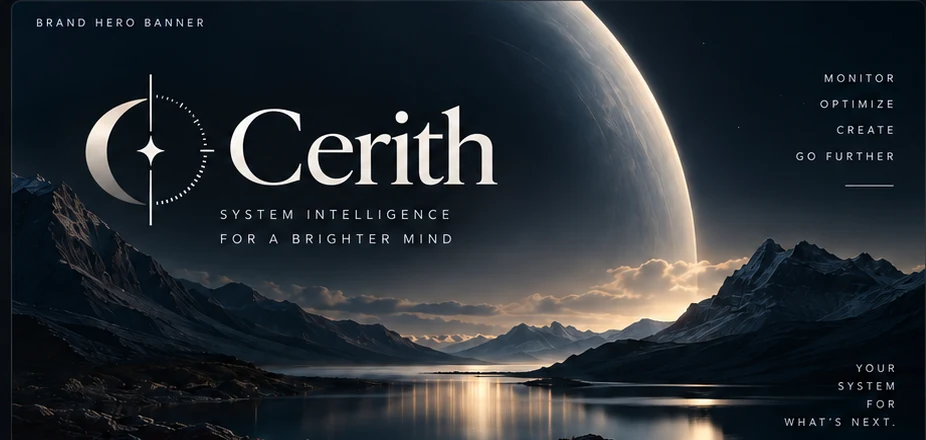
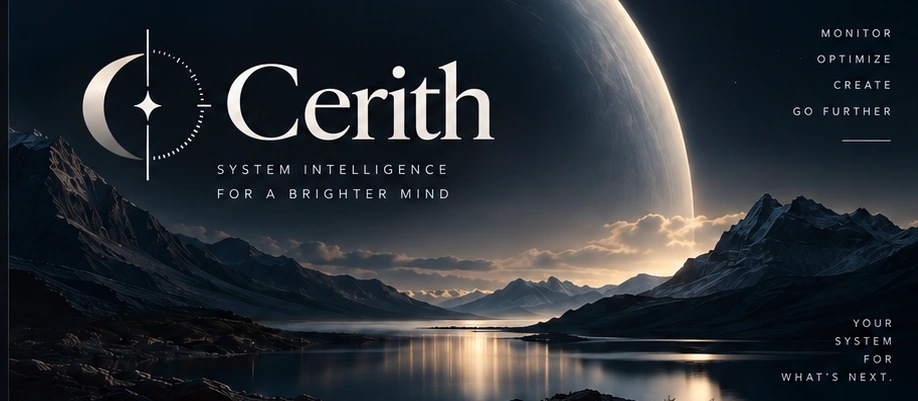
docs(brand): publish original Cerith identity without unbuilt dashboard

diff --git a/README.md b/README.md
@@ -1,104 +1,120 @@
 <div align="center">
-  <img src="docs/assets/cerith-hero.webp" alt="Cerith: an orbital mark and editorial wordmark over a midnight-blue horizon" width="100%" />
-</div>
-
-<div align="center">
-  <p><strong>Your system, in focus.</strong></p>
-  <p>A native Windows telemetry platform for hardware, gaming and AI usage — built around one idea: every real metric should work in any design, on any desktop surface.</p>
-  <p><strong>Windows</strong> · <strong>C# / .NET 10</strong> · <strong>WinUI 3</strong> · <strong>Local-first</strong></p>
-  <p><a href="#cerith-home">Explore Cerith Home</a> · <a href="#one-metric-language-many-surfaces">How it works</a> · <a href="#development-status">Roadmap</a> · <a href="#explore-the-project">Contribute</a></p>
+  <img src="docs/assets/cerith-hero.webp" alt="Cerith orbital symbol and wordmark above a luminous, midnight-blue mountain landscape" width="100%" />
+  <h1>Cerith</h1>
+  <p><strong>Any metric. Any design. Anywhere on your desktop.</strong></p>
+  <p>Native Windows telemetry for the things you care about — your hardware, your games, and your AI tools.</p>
+  <p>
+    <a href="https://github.com/ParedesYTecho/Cerith/actions/workflows/build.yml"><img src="https://github.com/ParedesYTecho/Cerith/actions/workflows/build.yml/badge.svg" alt="Build and Test status" /></a>
+    <a href="https://github.com/ParedesYTecho/Cerith/actions/workflows/quality.yml"><img src="https://github.com/ParedesYTecho/Cerith/actions/workflows/quality.yml/badge.svg" alt="Repository Quality status" /></a>
+  </p>
+  <p>
+    <a href="#what-is-cerith">Overview</a> &nbsp;·&nbsp;
+    <a href="#architecture">Architecture</a> &nbsp;·&nbsp;
+    <a href="#development-roadmap">Roadmap</a> &nbsp;·&nbsp;
+    <a href="#build-from-source">Build</a> &nbsp;·&nbsp;
+    <a href="#contributing">Contribute</a>
+  </p>
 </div>
 
 ---
 
-## Clarity at a glance. Depth when you need it.
+## What is Cerith?
 
-Cerith brings three kinds of observability into one coherent native experience:
+Cerith is an **openly developed, Windows-first telemetry platform**. It brings hardware performance, gaming data and AI usage into one native system, so the same metric can appear as a readout, a graph, a compact desktop widget or — when implemented — another surface you choose.
 
-| **Hardware** | **Gaming** | **AI observability** |
+The philosophy is simple: **powerful under the hood, calm on the desktop**. You should be able to start with a useful default, then control the information, appearance and placement without surrendering accuracy or performance.
+
+| Hardware | Gaming | AI observability |
 | :--- | :--- | :--- |
-| CPU, GPU, memory, storage, network and verified sensors. | FPS, frame time and measured game/session telemetry. | Subscription quotas, reset windows and local tool activity — without conflating them. |
+| CPU, GPU, memory, storage and network measurements from verified local sources. | FPS, frame time and performance telemetry with explicit measurement semantics. | Subscription allowances, reset windows and local tool activity, clearly separated from token costs and billing. |
+| **Foundation delivered in M1.** | **PresentMon pipeline delivered in M2.** | **Initial quota and activity vertical slices delivered in M3.** |
 
-Different sources. **The same truthful metric model.** Every surface consumes a `MetricId`, not a provider-specific UI implementation.
+The wider catalog is evolving. **Not every planned metric or surface is implemented today.**
 
-## Cerith Home
+## What makes it different
 
-<div align="center">
-  <img src="docs/assets/cerith-home-concept.webp" alt="Cerith Home concept showing a sidebar, five system metric cards and two AI allowance cards" width="100%" />
-</div>
+- **One metric, many presentations.** Components bind to stable `MetricId` contracts, not provider-specific widgets.
+- **Native and local-first.** C#, .NET 10, WinUI 3 and Windows APIs; no Electron or browser engine in the always-on monitoring path.
+- **Honest data.** Measured, estimated, stale, unavailable and error states are distinct. Unknown never silently becomes zero.
+- **Built for customization.** Components and saved composition come before a future drag-and-drop visual editor.
+- **Performance with evidence.** CPU, memory, DPI, keyboard access and lifecycle behavior are measured, not assumed.
+- **Privacy is part of the architecture.** A usage counter is not permission to collect prompts, source code or credentials.
 
-> **Visual direction, not a product screenshot.** The interface and all numbers above are illustrative. Cerith Home is a proposed landing experience; it is **not** an implemented, working dashboard in the current milestone.
-
-A calm, information-rich home for your desktop. Hardware readouts sit alongside clearly labelled AI allowance windows, with the most useful information immediately visible and deeper inspection one interaction away.
-
-**Designed to become yours:** a polished first-run layout, followed by selectable metrics, movable and resizable sections, comfortable-to-compact density, themes and saved layouts. Narrow windows **reflow** their content rather than shrinking the entire UI to illegibility.
-
-The orbital identity, restrained color, generous hierarchy and fine borders come from the **Cerith Home** design direction. Branding artwork belongs in the product identity; decorative scenery does not compete with live measurements inside the application.
-
-[Read the visual direction and interaction contract →](docs/UI_UX.md#cerith-home--visual-direction)
-
-## One metric language. Many surfaces.
+## Architecture
 
 ```text
-Hardware · PresentMon · AI quota/activity sources
-                    │
-             MetricSnapshot
-                    │
-          MetricRegistry / MetricBus
-                    │
-                  IPC
-                    │
-        MetricId-bound native components
-                    │
-   Home · Floating widgets · Taskbar · Tray · Overlay
+ Hardware          Gaming            AI sources
+     └────────────────┼─────────────────┘
+                      ▼
+           Providers / acquisition
+                      ▼
+           MetricSnapshot + MetricBus
+                      ▼
+               Named-pipe IPC
+                      ▼
+             MetricId bindings
+                      ▼
+      Native components and surfaces
 ```
 
-Cerith is built **native-first**. The monitoring path is local, and the interface must not become the workload. Components can present data differently, but they cannot silently rewrite its meaning.
+A widget never needs to know whether a metric came from a GPU sensor, PresentMon or an AI quota source. [Architecture](docs/ARCHITECTURE.md) · [Metric semantics](docs/METRICS.md) · [AI telemetry](docs/AI_TELEMETRY.md).
 
-- **Truth before appearance.** Missing data is not zero. Estimated data is not measured data.
-- **Privacy by default.** Local-first acquisition; no prompts, source code or credentials masquerading as telemetry.
-- **Performance is measured.** Windows, DPI, accessibility and idle overhead are quality gates, not marketing claims.
-- **Deep customization without the initial setup tax.** Useful defaults first; advanced composition for people who want it.
+## Design, with purpose
 
-## Development status
+Cerith's visual direction pairs an **orbital mark and editorial typography** with midnight tones, warm highlights and restrained motion. It is a brand exploration based on original project artwork, not a screenshot of a running application.
 
-**Active development · no public release yet.** This README distinguishes the shipped repository code from the design direction and roadmap.
+The product experience is intended to be **dense but calm**: readable hierarchy, purposeful motion, adaptable density, accessible states and layout that responds to actual window size and DPI. Its eventual Home view, editor and historical dashboards are specified in the roadmap; none is represented here by a fictional screenshot.
 
-| Milestone | State | Scope |
+[Visual principles and interaction rules →](docs/UI_UX.md) · [Product vision →](docs/PRODUCT_SPEC.md)
+
+## Development roadmap
+
+Cerith is in **active development**. There is **no public installer or stable release** yet.
+
+| Milestone | Status | Focus |
 | :--- | :--- | :--- |
-| **M0 · Foundation** | Complete | Metric contracts, runtime skeleton, IPC and project safeguards |
-| **M1 · Hardware** | Complete | Initial native hardware acquisition |
-| **M2 · Gaming** | Complete | PresentMon-based FPS, frame-time and session foundations |
-| **M3 · AI telemetry** | Complete | Initial quota integrations and a bounded local activity collector |
-| **M4 · Widget engine** | **In progress** | Native metric components, composition and compact surfaces |
-| **M5 · Visual editor** | Planned | Drag, resize, layers, alignment and property inspector |
-| **M6 · Rules & profiles** | Planned | Context-aware presentation and alerts |
-| **M7 · History & analytics** | Planned | Retained data, trends, model breakdown and historical dashboards |
+| **M0 — Foundation** | Complete | Core contracts, IPC, development baseline |
+| **M1 — Hardware MVP** | Complete | Verified initial hardware telemetry |
+| **M2 — Gaming pipeline** | Complete | PresentMon and frame-time foundations |
+| **M3 — AI telemetry** | Complete | Initial quota integrations and local activity |
+| **M4 — Widget engine & compact surfaces** | **In progress** | Native components, composition and desktop surfaces |
+| **M5 — Visual editor** | Planned | Canvas, resize, layers and property inspector |
+| **M6 — Rules & profiles** | Planned | Conditions, alerts and contextual presentation |
+| **M7 — History & analytics** | Planned | Local history, trends and extended dashboards |
 
-The current M4 branch work is reviewable in [pull requests](https://github.com/ParedesYTecho/Cerith/pulls); **a draft PR is not a completed feature on `main`**. See the [canonical roadmap](docs/ROADMAP.md) for full scope and acceptance criteria.
+The table describes milestones, **not complete coverage of every future provider or feature**. Current M4 candidates may exist in [draft pull requests](https://github.com/ParedesYTecho/Cerith/pulls); draft work is not part of `main`. [See the canonical roadmap →](docs/ROADMAP.md)
 
-### How Home fits the roadmap
+## Build from source
 
-The visual idea is staged rather than promised all at once: **M4** supplies the honest metric components and native surfaces; **M5** supplies visual editing and saved composition workflows; **M6** can add contextual profiles; **M7** supplies real historical charts and token/cost analytics. No mockup chart implies a source or history store that does not yet exist.
+For contributors and developers on **Windows**, use the .NET 10 SDK and the Windows tooling required by WinUI 3. The commands below reflect the repository's [Build and Test workflow](.github/workflows/build.yml).
 
-## Explore the project
+```powershell
+git clone https://github.com/ParedesYTecho/Cerith.git
+cd Cerith
 
-| Read | Why |
-| :--- | :--- |
-| [Product specification](docs/PRODUCT_SPEC.md) | Vision, surfaces and long-term scope |
-| [UI / UX](docs/UI_UX.md) | Cerith Home, customization, density, motion and honest states |
-| [Architecture](docs/ARCHITECTURE.md) | MetricId, providers, runtime and boundaries |
-| [Metrics](docs/METRICS.md) | Units, confidence and telemetry semantics |
-| [AI telemetry](docs/AI_TELEMETRY.md) | Quotas versus tokens and source limitations |
-| [Roadmap](docs/ROADMAP.md) | Milestones and sequencing |
-| [Contributing](CONTRIBUTING.md) | Branches, PR quality and verification |
-| [Security](SECURITY.md) | Responsible handling and privacy |
+dotnet restore Cerith.sln
+dotnet build Cerith.sln --configuration Release --no-restore
+```
 
-**Development stack:** C#, .NET 10, WinUI 3 / Windows App SDK, LibreHardwareMonitor, PresentMon and SQLite where required. No Electron or browser engine in the always-on monitoring path.
+Run the repository's three test projects:
 
-Cerith is developed in a public repository, but the **final code, documentation and brand licensing decisions remain pending**. Consult the [open-source strategy](docs/OPEN_SOURCE_STRATEGY.md) before reusing code or brand assets. *Cerith* is a working product name until clearance is complete.
+```powershell
+dotnet test tests/Cerith.Core.Tests/Cerith.Core.Tests.csproj --configuration Release --no-build
+dotnet test tests/Cerith.Telemetry.Tests/Cerith.Telemetry.Tests.csproj --configuration Release --no-build
+dotnet test tests/Cerith.Integration.Tests/Cerith.Integration.Tests.csproj --configuration Release --no-build
+```
+
+This is a **developer build**, not an installation or feature-completeness guarantee. Native runtime/DPI checks still require suitable Windows hardware and are tracked separately.
+
+## Contributing
+
+Cerith aims to be open to collaboration without compromising telemetry integrity or code quality. Contributions should be small, independently understandable and reviewable, with provenance for any external code.
+
+Start with [CONTRIBUTING.md](CONTRIBUTING.md), [CODE_QUALITY.md](CODE_QUALITY.md), [SECURITY.md](SECURITY.md) and the [development workflow](DEVELOPMENT_WORKFLOW.md).
+
+**Source availability is not a license grant.** The code, documentation and brand policies are still being finalized; see [Open Source Strategy](docs/OPEN_SOURCE_STRATEGY.md). The Cerith name and artwork are provisional pending clearance.
 
 <div align="center">
-  <p><strong>Any metric. Any design. Anywhere on your desktop.</strong></p>
+  <img src="docs/assets/cerith-logo.webp" alt="Cerith orbital logo and typographic lockup, brand exploration" width="300" />
   <p><sub>Native by design. Honest by default.</sub></p>
 </div>

diff --git a/docs/PRODUCT_SPEC.md b/docs/PRODUCT_SPEC.md
@@ -51,7 +51,7 @@ ANY SURFACE
 
 Cerith Home is the proposed **native, configurable landing page** for a quick overview of hardware, gaming and AI telemetry. It is distinct from the small always-visible widgets and from the expanded inspection views. It should offer a polished default composition, responsive reflow, honest metric states and a path to deep personalization without imposing an editor on first launch.
 
-The current visual direction uses an editorial midnight palette, an orbital brand mark, a concise navigation rail, hardware summaries and expanded AI usage/allowance cards. The supplied concept artwork is **illustrative**, not a working product screenshot or evidence for any displayed measurement. Exact composition, responsive breakpoints and final identity are subject to native usability/accessibility checks and brand clearance.
+The intended Home direction uses an editorial midnight palette, an orbital brand mark, a compact navigation pattern, hardware summaries and clearly identified AI usage/allowance sections. This is a **future product direction**, not an implemented dashboard or proof of any displayed measurement. Responsive behavior, accessibility, final composition and brand identity require native validation and clearance.
 
 Home depends on capabilities delivered progressively: M4 metric components and native surfaces, M5 visual editing and presets, M6 contextual profiles and M7 persisted history/analytics. This direction **does not** change M4 exit criteria or authorize claiming unbuilt history, editor or provider functions. The actionable UX contract and concept live in [UI_UX.md](UI_UX.md#cerith-home--visual-direction).
 

diff --git a/docs/UI_UX.md b/docs/UI_UX.md
@@ -21,11 +21,9 @@ External references expand the design vocabulary; they do not define the product
 
 ## Cerith Home — visual direction
 
-**Status:** Approved direction for design exploration, **not** an implemented screen or a new M4 exit requirement. The reference concept is an editorial dark dashboard, with an orbital Cerith identity, a compact navigation rail, a hardware summary row and larger AI allowance cards.
+**Status:** Future native landing-page direction, **not** an implemented screen or a new M4 exit requirement. The target is an editorial dashboard with legible hardware and AI summaries, adaptable navigation and honest status information.
 
-![Cerith Home visual exploration](assets/cerith-home-concept.webp)
-
-*Concept art uses sample values; it is not a runtime screenshot or evidence of available telemetry. The orbital identity is also exploratory while name/brand clearance is pending.*
+The dashboard concept is intentionally **not included as a screenshot or promotional image** until an actual Home surface exists. The current [orbital hero](assets/cerith-hero.webp) and [logo lockup](assets/cerith-logo.webp) are brand studies cropped from user-supplied project artwork, not UI captures. The name and mark remain provisional pending clearance.
 
 ### Identity and hierarchy
 
